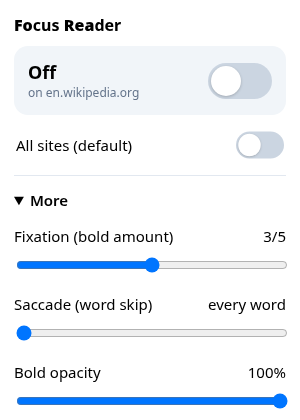
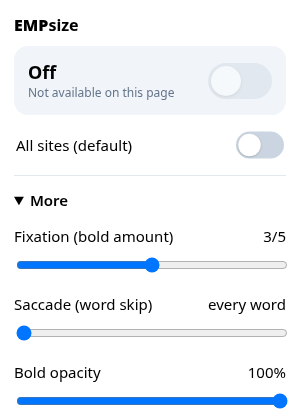
Rename product to EMPsize (bundle IDs and storage keys unchanged)

diff --git a/chrome/popup.html b/chrome/popup.html
@@ -1,4 +1,4 @@
-<!doctype html><html><head><meta charset="utf-8"><meta name="viewport" content="width=device-width, initial-scale=1">
+<!doctype html><html><head><meta charset="utf-8"><title>EMPsize</title><meta name="viewport" content="width=device-width, initial-scale=1">
 <style>
 :root{--blue:#2563eb}
 body{font:15px -apple-system,system-ui,sans-serif;min-width:260px;max-width:420px;margin:0;padding:14px}
@@ -17,7 +17,7 @@ details label:not(.sw){display:flex;justify-content:space-between;align-items:ce
 small{color:#64748b;display:block;margin-top:8px}
 @media (prefers-color-scheme:dark){body{background:#1c1c1e;color:#eee}.big{background:#2c2c2e}small,.big .h{color:#aaa}details{border-color:#3a3a3c}}
 </style></head><body>
-<h1><b>Fo</b>cus <b>Rea</b>der</h1>
+<h1><b>EMP</b>size</h1>
 <label class="big" for="site"><div><div class="t" id="state">Off</div><div class="h" id="host">this site</div></div>
   <span class="sw"><input type="checkbox" id="site"><span></span></span></label>
 <div class="row"><span>All sites (default)</span><label class="sw sm"><input type="checkbox" id="global"><span></span></label></div>

diff --git a/safari/extension/popup.html b/safari/extension/popup.html
@@ -1,4 +1,4 @@
-<!doctype html><html><head><meta charset="utf-8"><meta name="viewport" content="width=device-width, initial-scale=1">
+<!doctype html><html><head><meta charset="utf-8"><title>EMPsize</title><meta name="viewport" content="width=device-width, initial-scale=1">
 <style>
 :root{--blue:#2563eb}
 body{font:15px -apple-system,system-ui,sans-serif;min-width:260px;max-width:420px;margin:0;padding:14px}
@@ -17,7 +17,7 @@ details label:not(.sw){display:flex;justify-content:space-between;align-items:ce
 small{color:#64748b;display:block;margin-top:8px}
 @media (prefers-color-scheme:dark){body{background:#1c1c1e;color:#eee}.big{background:#2c2c2e}small,.big .h{color:#aaa}details{border-color:#3a3a3c}}
 </style></head><body>
-<h1><b>Fo</b>cus <b>Rea</b>der</h1>
+<h1><b>EMP</b>size</h1>
 <label class="big" for="site"><div><div class="t" id="state">Off</div><div class="h" id="host">this site</div></div>
   <span class="sw"><input type="checkbox" id="site"><span></span></span></label>
 <div class="row"><span>All sites (default)</span><label class="sw sm"><input type="checkbox" id="global"><span></span></label></div>

diff --git a/src/popup.html b/src/popup.html
@@ -1,4 +1,4 @@
-<!doctype html><html><head><meta charset="utf-8"><meta name="viewport" content="width=device-width, initial-scale=1">
+<!doctype html><html><head><meta charset="utf-8"><title>EMPsize</title><meta name="viewport" content="width=device-width, initial-scale=1">
 <style>
 :root{--blue:#2563eb}
 body{font:15px -apple-system,system-ui,sans-serif;min-width:260px;max-width:420px;margin:0;padding:14px}
@@ -17,7 +17,7 @@ details label:not(.sw){display:flex;justify-content:space-between;align-items:ce
 small{color:#64748b;display:block;margin-top:8px}
 @media (prefers-color-scheme:dark){body{background:#1c1c1e;color:#eee}.big{background:#2c2c2e}small,.big .h{color:#aaa}details{border-color:#3a3a3c}}
 </style></head><body>
-<h1><b>Fo</b>cus <b>Rea</b>der</h1>
+<h1><b>EMP</b>size</h1>
 <label class="big" for="site"><div><div class="t" id="state">Off</div><div class="h" id="host">this site</div></div>
   <span class="sw"><input type="checkbox" id="site"><span></span></span></label>
 <div class="row"><span>All sites (default)</span><label class="sw sm"><input type="checkbox" id="global"><span></span></label></div>

diff --git a/safari/README.md b/safari/README.md
@@ -1,30 +1,30 @@
-# Focus Reader for Safari (iPhone, iPad and Mac)
+# EMPsize for Safari (iPhone, iPad and Mac)
 
 `safari/extension/` is the same code as the Chrome build, with a Safari-friendly manifest (non-persistent background, Safari 16.4+). It is generated by `../build.sh` from `../src/`.
 
 ## On your Mac (one time)
 1. Install Xcode from the Mac App Store and open it once. Sign in at Xcode > Settings > Accounts with your Apple Developer account.
-2. Copy this whole `safari/` folder to the Mac. You can also use `focus-reader-safari-extension.zip`: unzip it into a folder named `extension`.
+2. Copy this whole `safari/` folder to the Mac. You can also use `empsize-safari-extension.zip`: unzip it into a folder named `extension`.
 3. In Terminal:
    ```
    cd path/to/safari
    xcrun safari-web-extension-converter extension \
-     --project-location ./xcode --app-name "Focus Reader" \
+     --project-location ./xcode --app-name "EMPsize" \
      --bundle-identifier com.yourname.focusreader --swift --copy-resources
    ```
    This makes an Xcode project with iOS and macOS apps. Add `--ios-only` or `--macos-only` if you only want one.
 4. Xcode opens. For **each** target (iOS app, iOS extension, macOS app, macOS extension), go to *Signing & Capabilities*, turn on "Automatically manage signing", and pick your Team.
 
 ## Run on your Mac
-1. Choose the "Focus Reader (macOS)" scheme and press Run (⌘R). The app opens; you can close it.
-2. Open Safari > Settings > Extensions and tick **Focus Reader**. (While developing, you may first need Safari > Settings > Advanced > "Show features for web developers", then Develop > "Allow unsigned extensions". This isn't needed once the app is signed and archived.)
-3. Click the Focus Reader toolbar button and pick "Always allow on every website" (or allow just the current site).
+1. Choose the "EMPsize (macOS)" scheme and press Run (⌘R). The app opens; you can close it.
+2. Open Safari > Settings > Extensions and tick **EMPsize**. (While developing, you may first need Safari > Settings > Advanced > "Show features for web developers", then Develop > "Allow unsigned extensions". This isn't needed once the app is signed and archived.)
+3. Click the EMPsize toolbar button and pick "Always allow on every website" (or allow just the current site).
 
 ## Run on your iPhone
 1. Plug in the iPhone (or pair it over Wi-Fi). On the phone, turn on Settings > Privacy & Security > Developer Mode and restart if asked.
-2. In Xcode, choose the "Focus Reader (iOS)" scheme and your iPhone as the destination, then press Run.
-3. On the iPhone, go to **Settings > Apps > Safari > Extensions > Focus Reader**. Turn it on and set "All Websites" to **Allow**. Also turn on "Private Browsing" if you want it there.
-4. In Safari, tap the **Aa** / puzzle-piece icon in the address bar, then tap **Focus Reader** and hit the big switch.
+2. In Xcode, choose the "EMPsize (iOS)" scheme and your iPhone as the destination, then press Run.
+3. On the iPhone, go to **Settings > Apps > Safari > Extensions > EMPsize**. Turn it on and set "All Websites" to **Allow**. Also turn on "Private Browsing" if you want it there.
+4. In Safari, tap the **Aa** / puzzle-piece icon in the address bar, then tap **EMPsize** and hit the big switch.
 
 ## TestFlight / App Store
 In Xcode, choose Product > Archive, then Distribute App > App Store Connect > Upload. Add the build to TestFlight in App Store Connect. Archive the iOS and macOS apps separately, each with its own scheme.

diff --git a/README.md b/README.md
@@ -1,11 +1,11 @@
-# Focus Reader
+# EMPsize
 
 A Chrome / Edge / Brave extension (Manifest V3) that bolds the start of each word so your eye lands on word beginnings. This is an independent implementation. It is not affiliated with Bionic Reading® and does not use its API. Everything runs locally: no network calls and no remote code.
 
 ## Install
 1. Open `chrome://extensions` (or `edge://extensions` / `brave://extensions`).
 2. Turn on **Developer mode**.
-3. Click **Load unpacked** and pick the `chrome/` folder (or unzip `focus-reader-chrome.zip`).
+3. Click **Load unpacked** and pick the `chrome/` folder (or unzip `empsize-chrome.zip`).
 4. Pin the extension, then click its icon.
 
 ## Layout
